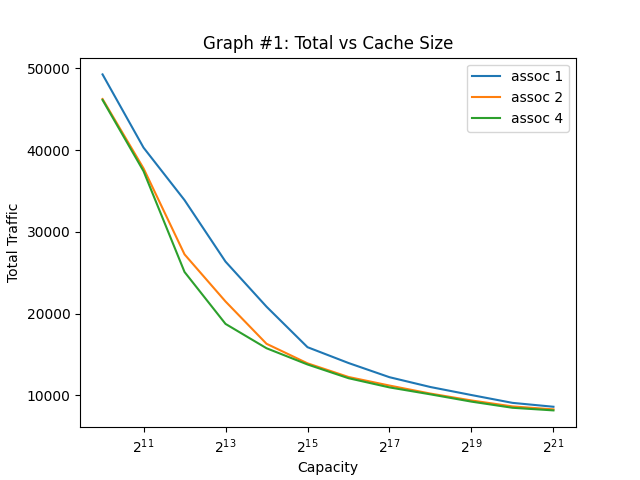
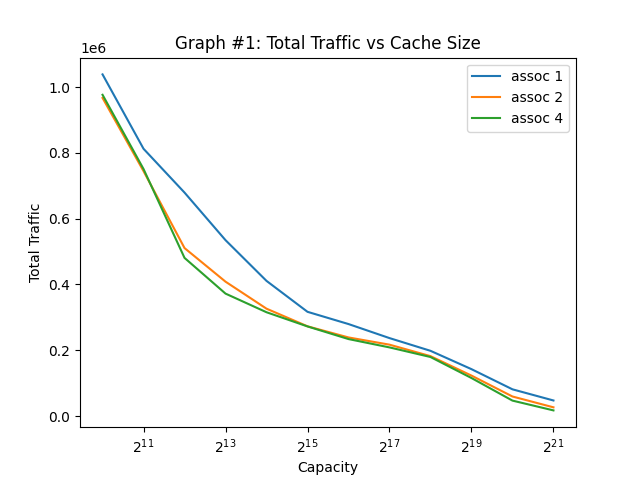
graphs

diff --git a/p5release/graph2.py b/p5release/graph2.py
@@ -48,7 +48,7 @@ def graph():
                     logfile = folder+"%s-%02d-%02d-%02d-%02d.out" % (
                             protocol, d, c, b, a)
                     run_exp(logfile, d, c, b, a)
-                    total_traffic[a].append(get_stats(logfile, 'B_total_traffic_wb')/100)
+                    total_traffic[a].append(get_stats(logfile, 'B_written_cache_to_bus_wb'))
 
     plots = []
     for a in total_traffic:
@@ -56,7 +56,7 @@ def graph():
         plots.append(p)
     plt.legend(plots, ['assoc %d' % a for a in assoc_range])
     plt.xscale('log', base=2)
-    plt.title('Graph #1: Total vs Cache Size')
+    plt.title('Graph #2: Total Traffic vs Cache Size')
     plt.xlabel('Capacity')
     plt.ylabel('Total Traffic')
     plt.savefig(figname)
